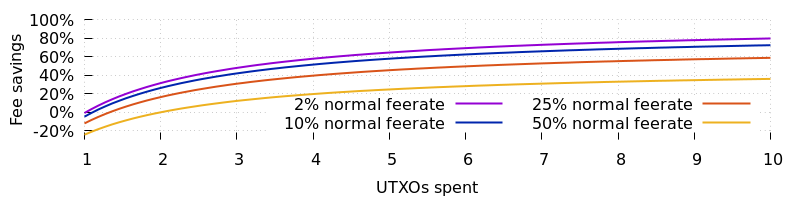
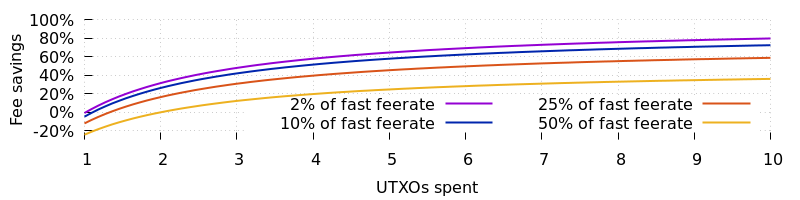
Consolidation: edits for feedback from bitschmidty (thanks!)

Changed region(s): [[0.3438, 0.48, 0.625, 0.66], [0.6562, 0.48, 0.8125, 0.66]]

diff --git a/x.consolidation/consolidation.md b/x.consolidation/consolidation.md
@@ -6,6 +6,11 @@ UTXO.  This lowers the number of UTXOs you control while keeping your
 balance roughly the same, increasing the chance that you'll be able to
 create smaller and more affordable transactions at a later time when
 you need to pay a higher feerate in order to obtain a fast confirmation.
+As described in the following sections, most services that use
+consolidation will save 20% to 40% on their overall transaction fees
+without changing their payment user experience at all.  Outlier services
+that receive significantly more incoming payments than they send
+outgoing payments may save up to 80% through effective consolidation.
 
 ## A consolidation example
 
@@ -13,7 +18,7 @@ Imagine a transaction as a rectangle whose height is its feerate, whose
 length is its size (block weight), and whose area is its total fee
 (feerate times size).  For example, illustrated below is a simple
 transaction that spends from one P2WPKH UTXO (input) to two P2WPKH
-outputs---one output to a client and one as change back to the spender.
+outputs---one output to a receiver and one as change back to the spender.
 
 ![Example of a 1-input, 2-output transaction](img/consolidation-example-1in2out.png)
 
@@ -29,7 +34,7 @@ Although that seemed like a minor change, it almost doubled the size and
 cost of our transaction.  This is where consolidation can be useful.  By
 preparing ahead, we can can *consolidate* the three UTXOs of our large
 transaction into a single UTXO using a low-feerate transaction spent from
-ourself to ourself.  Then we can pay the client using a single UTXO in a
+ourself to ourself.  Then we can pay the receiver using a single UTXO in a
 high-feerate transaction that has an identical shape to the first
 example transaction above:
 
@@ -40,11 +45,14 @@ Comparing the total costs, we find that the two transaction version is
 UTXOs.  This is possible even though the two-transaction version uses
 more total block space.
 
-If the consolidation transaction confirms before you send the second
-transaction paying the client, then the client won't experience any
-additional delay compared to the single-transaction variations, and so
-you'll have saved a modest amount of money without changing the receiver
-experience at all.
+With consolidation, there's also no change to the user experience for
+the receiver.  As long as you ensure your consolidation transactions
+confirm before you try to spend their outputs, the payment to the
+receiver will confirm at the same time whether or not you previously
+consolidated your UTXOs (ignoring some rare corner cases).  <!-- corner
+case: a post-consolidated single-input tx may sometimes confirm faster
+than a non-consolidated multi-input tx because the smaller tx fits into
+the lowest-feerate part of a block but the larger tx doesn't -->
 
 ## Average UTXOs spent
 
@@ -103,8 +111,8 @@ Let's plot just the savings in percentage terms:
 ![Savings from consolidation](img/estimating-savings-p2wpkh-savings.png)
 
 Obviously the actual amount we save is going to depend on the ratio
-between the low feerate used for consolidations and the higher feerate
-used to pay clients.  Using data provided in the appendix of this
+between the low/slow feerate used for consolidations and the high/fast feerate
+used to pay receiver.  Using data provided in the appendix of this
 chapter, the following ratios are commonly achievable as of this
 writing:
 
@@ -128,6 +136,8 @@ and slow (low) feerates is persistently small.
 
 ## UTXO pools
 
+FIXME: move to after cold wallet section
+
 The above examples assume that you'll go from having *n* UTXOs to having
 just one UTXO, but that can create problems if you ever need to
 broadcast a transaction while another one of your transactions is still
@@ -144,7 +154,9 @@ use patterns reserved for future soft forks -->
 An unconfirmed UTXO is the output of a transaction which is still in the
 mempool (i.e. has not yet been confirmed).  To prevent DoS attacks
 against node mempools, nodes place additional restrictions on
-transactions that use unconfirmed UTXOs.  That means you aren't
+transactions that use unconfirmed UTXOs---such as not allowing them to
+have more than 25 ancestors or for the size of all related transaction
+in the mempool to exceed 100,000 vbytes.  That means you aren't
 guaranteed to be able to spend unconfirmed UTXOs at an arbitrary time.
 For example, a wallet may not be able to propagate the second
 transaction illustrated below (tx1) until after the the first
@@ -156,9 +168,9 @@ second-child CPFP carve-out -->
 
                tx0                    tx1
                ---                    ---
-    Wallet UTXO → Client Alice UTXO
-                  Client Bob UTXO
-                  Wallet UTXO (change) → Client Charlie UTXO
+    Wallet UTXO → Receiver Alice UTXO
+                  Receiver Bob UTXO
+                  Wallet UTXO (change) → Receiver Charlie UTXO
                                          Wallet UTXO (change)
 
 Because many users expect to receive notification of new unconfirmed
@@ -186,7 +198,7 @@ inefficiency.  If it happens frequently, you have several options:
    keeping the number of outputs the same and increasing the value of
    each output, overall increasing the amount of money you have in the
    pool.  Note that this also increases the amount of money you'll lose
-   due to theft or accident involving your hot wallet.
+   due to theft or accident involving your wallet.
 
 2. Increase the average value of the outputs in your UTXO pool by
    keeping the total amount the same but decreasing the number of
@@ -202,11 +214,11 @@ inefficiency.  If it happens frequently, you have several options:
    amounts so you have as many different combinations of amounts as
    possible.
 
-## Optimum consolidation size
+## Optimizing UTXO consolidations
 
 To consolidate UTXOs, you need to include more data than just the UTXOs
 in a transaction---you also have to include an output that pays the
-funds back to yourself plus some transaction boilerplate (version
+funds back to yourself plus some transaction overhead (version
 number, nLockTime, etc...).  The more UTXOs you consolidate in a single
 transaction, the better the fixed costs of the transaction are divided
 among UTXOs, with the cost per UTXO asymptotically approaching the
@@ -261,7 +273,7 @@ When you receive a payment to a new address that has never been used
 before, analysts looking at block chain history won't know who owns that
 UTXO.  But if you consolidate that UTXO with other UTXOs that they've
 identified as belonging to you, the analysts can make the reasonable
-assumption that all the consolidated funds belong to you.  
+assumption that all the consolidated funds belong to you.
 
     1 (Alice) \
                \
@@ -276,7 +288,8 @@ users who have previously used techniques such as coinjoin to conflate
 the ownership history of their UTXOs with other UTXOs.
 
 It may be possible to perform a limited amount of consolidation during a
-coinjoin, e.g. as implemented in Joinmarket or Wasabi.  Additionally,
+coinjoin, e.g. as implemented in Joinmarket or Wasabi.  Consolidation
+even happens automatically using a [payjoin][].  Additionally,
 ideas for future protocol development such as [channel factories][] or
 [joinpools][] may make it more common for multiple UTXOs owned by
 multiple people to be merged into a single UTXO and then used for
@@ -286,7 +299,16 @@ resulting from a consolidation.
 ## Choosing UTXOs to consolidate
 
 Your goal is to fulfill as many payments as possible using a single
-UTXO, so you should consolidate your lowest-value UTXOs first.  Additionally,
+UTXO, so you should consolidate your lowest-value UTXOs first, excluding
+any UTXOs that aren't economical to spend.  Uneconomical UTXOs are those
+that cost more to spend than the value they store.  For example, imagine
+a P2PKH UTXO that holds 0.00001000 BTC; it costs about 148 vbytes to spend
+a P2PKH UTXO, so if you multiply 148 by your per-vbyte feerate and get a
+value over 0.00001000 BTC, you want to skip spending that UTXO at this
+time.  You can re-evaluate spending it at a later time when feerates
+have decreased.
+
+Additionally,
 you may be able to reduce your amount of privacy loss by ensuring that
 any time you select a UTXO received to a particular address, you also
 select all other UTXOs received to the same address.  For example,
@@ -307,7 +329,7 @@ Finally, you select `bcdefa:0` because it's the next lowest value UTXO.
 
 For more information about selecting related UTXOs,
 [read][avoidpartialspends] about the `-avoidpartialspend` configuration
-option in Bitcoin Core. 
+option in Bitcoin Core.
 
 ## Consolidation versus competing techniques
 
@@ -364,7 +386,7 @@ feerate:
 Alice's Consolidation transaction with ten inputs and one output is
 679.25 vbytes; her subsequent five payment transactions each with one
 input and two outputs are 136.50 vbytes.  Bob's five changeless
-transactions, each with two inputs and one output, are 169.25 vbytes in size.  
+transactions, each with two inputs and one output, are 169.25 vbytes in size.
 If Alice and Bob both send their payment transactions at the same rate,
 we can use some simple algebra to calculate what percentage of that
 feerate Bob needs to use for his consolidation transaction in order to
@@ -387,7 +409,7 @@ used a correspondingly-higher feerate for her consolidation transaction.
 That said, a clear advantage of changeless transactions over
 consolidation transactions is that they allow the spender to save block
 space and achieve modest fee savings while preserving their privacy
-against the problems described in the *Consolidation Privacy* section
+against the problems described in the *Privacy Concerns* section
 above.  For most individual spenders or even small businesses who only
 spend infrequently, that privacy advantage is more important to them than
 the fee savings from consolidation.
@@ -397,7 +419,10 @@ the fee savings from consolidation.
 [Predictive UTXO management][] is a service provided by BitGo that
 "reduces the overall cost by minimizing transaction sizes at high fee
 rates, while automatically sweeping up and processing many small
-fragments of coins when fees are low."  The exact implementation of 
+fragments of coins when fees are low."  In other words, you
+automatically perform consolidations as part of your regular spending
+transactions when feerates are low, but stop consolidating when feerates
+are high.  The exact implementation of
 this technique is proprietary, but it's probably similar to [organic
 UTXO consolidation][] as described by Dmitry Petukhov.
 
@@ -416,7 +441,7 @@ want their spending transactions to confirm within the next several blocks.
 That's because saving a few dozen bytes in block chain space using
 predictive/organic transactions doesn't match being able to save a large
 percentage of UTXO spending costs by spending UTXOs at a lower feerate.
-This was actually quantified in a earlier illustration: 
+This was actually quantified in a earlier illustration:
 
 ![Savings by consolidation feerate](img/estimating-savings-by-feerate.png)
 
@@ -437,7 +462,7 @@ on maximizing fee savings will probably want to focus on UTXO consolidation.
 
 ## Fee bumping
 
-The maximize savings, consolidation transactions should be sent at the
+To maximize savings, consolidation transactions should be sent at the
 lowest feerate that you believe will allow the transactions to confirm
 before they are needed.  For example, if you can wait a week for a
 transaction to confirm, you should use your fee estimator's target
@@ -464,7 +489,7 @@ options:
   consolidation unless you were planning to transfer funds to your hot
   wallet anyway.
 
-## Conclusion 
+## Conclusion
 
 For organizations that both frequently receive and frequently send
 payments, consolidation is one of the most efficient ways to save money.
@@ -510,8 +535,9 @@ different confirmation targets.
 [Presentation: unspent management and coin selection]: https://www.youtube.com/watch?v=hrlNN3BSB6w&feature=emb_logo
 [Field report: consolidation of 4 million UTXOs at xapo]: https://bitcoinops.org/en/xapo-utxo-consolidation/
 [payment batching]: https://github.com/bitcoinops/scaling-book/blob/master/x.payment_batching/payment_batching.md
-[channel factories]: http://devbcop/en/topics/channel-factories/
+[channel factories]: https://bitcoinops.org/en/topics/channel-factories/
 [joinpools]: https://freenode.irclog.whitequark.org/bitcoin-wizards/2019-05-21#24639483;
 [BIP125]: https://github.com/bitcoin/bips/blob/master/bip-0125.mediawiki
 [predictive utxo management]: https://www.businesswire.com/news/home/20180726005483/en/BitGo-Introduces-Predictive-UTXO-Management-Delivering-30
-[organic utxo consolidation]: https://www.reddit.com/r/Bitcoin/comments/9kxn01/organic_utxo_consolidation_in_the_course_of/
+[organic utxo consolidation]: https://medium.com/simplexum/on-predictive-utxo-management-974be49506ca
+[payjoin]: https://bitcoinops.org/en/topics/payjoin/
